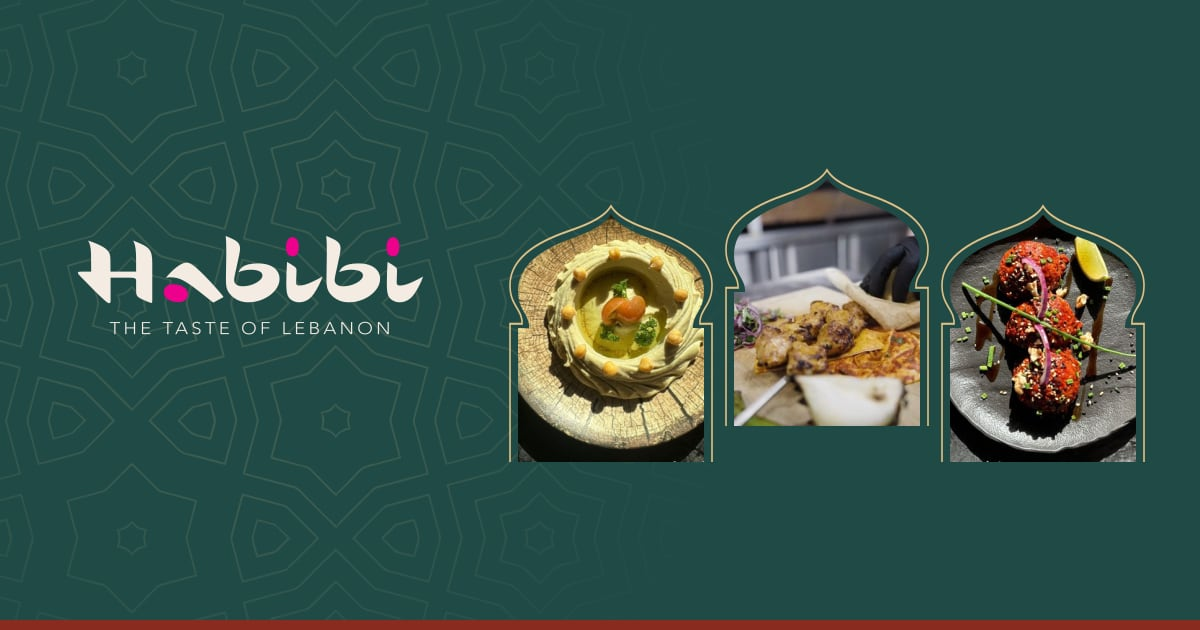
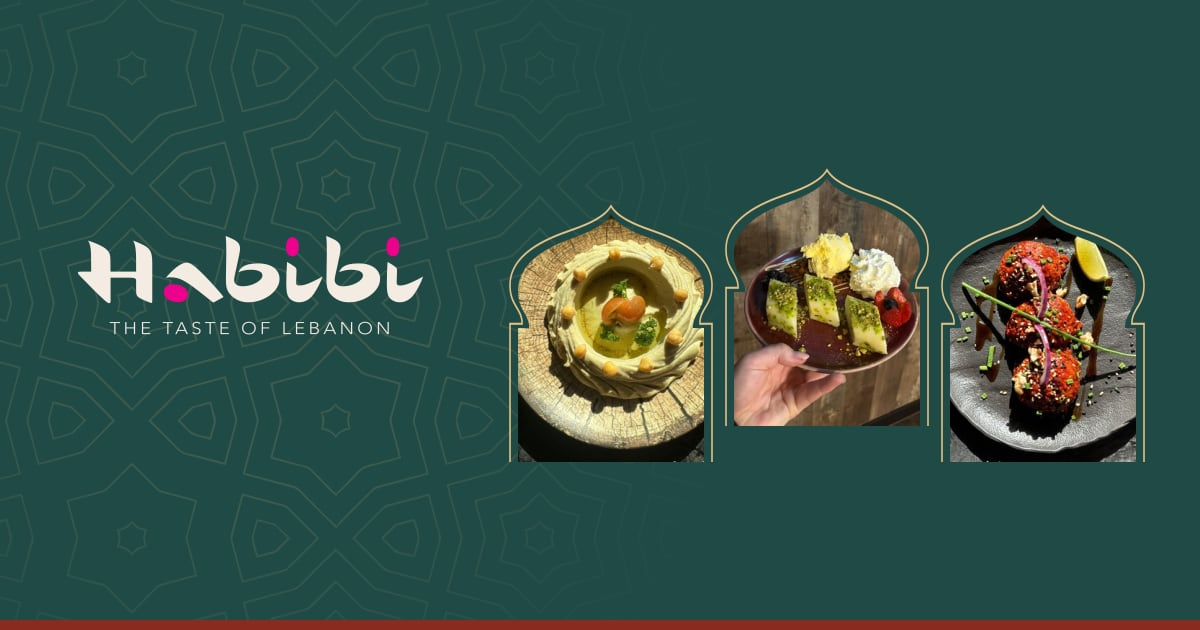
site: new photos for Halawet el Jibn and Grand Dessert; no photo for Jibneh Mushwiyeh and Shish Tavuk
The sharing picture now shows Halawet el Jibn instead of Shish Tavuk.

Claude-Session: https://claude.ai/code/session_01MzqXv9U2bnVFQeT7doZnQj

Changed region(s): [[0.5858, 0.2714, 0.7708, 0.6937]]

diff --git a/site/src/content/menu.ts b/site/src/content/menu.ts
@@ -532,8 +532,7 @@ export const categories: Category[] = [
             "icons": [
               "gf"
             ],
-            "small": null,
-            "photo": "jibneh-mushwiyeh"
+            "small": null
           },
           {
             "name": "Kawurma",
@@ -640,8 +639,7 @@ export const categories: Category[] = [
               "ar": "سيخان من صدر الدجاج المتبّل المشوي"
             },
             "icons": [],
-            "small": null,
-            "photo": "shish-tavuk"
+            "small": null
           },
           {
             "name": "Shikaf",
@@ -897,7 +895,8 @@ export const categories: Category[] = [
               "ar": "دلال حقيقي (لشخصين)"
             },
             "icons": [],
-            "small": null
+            "small": null,
+            "photo": "grand-dessert"
           },
           {
             "name": "Bakdash",
